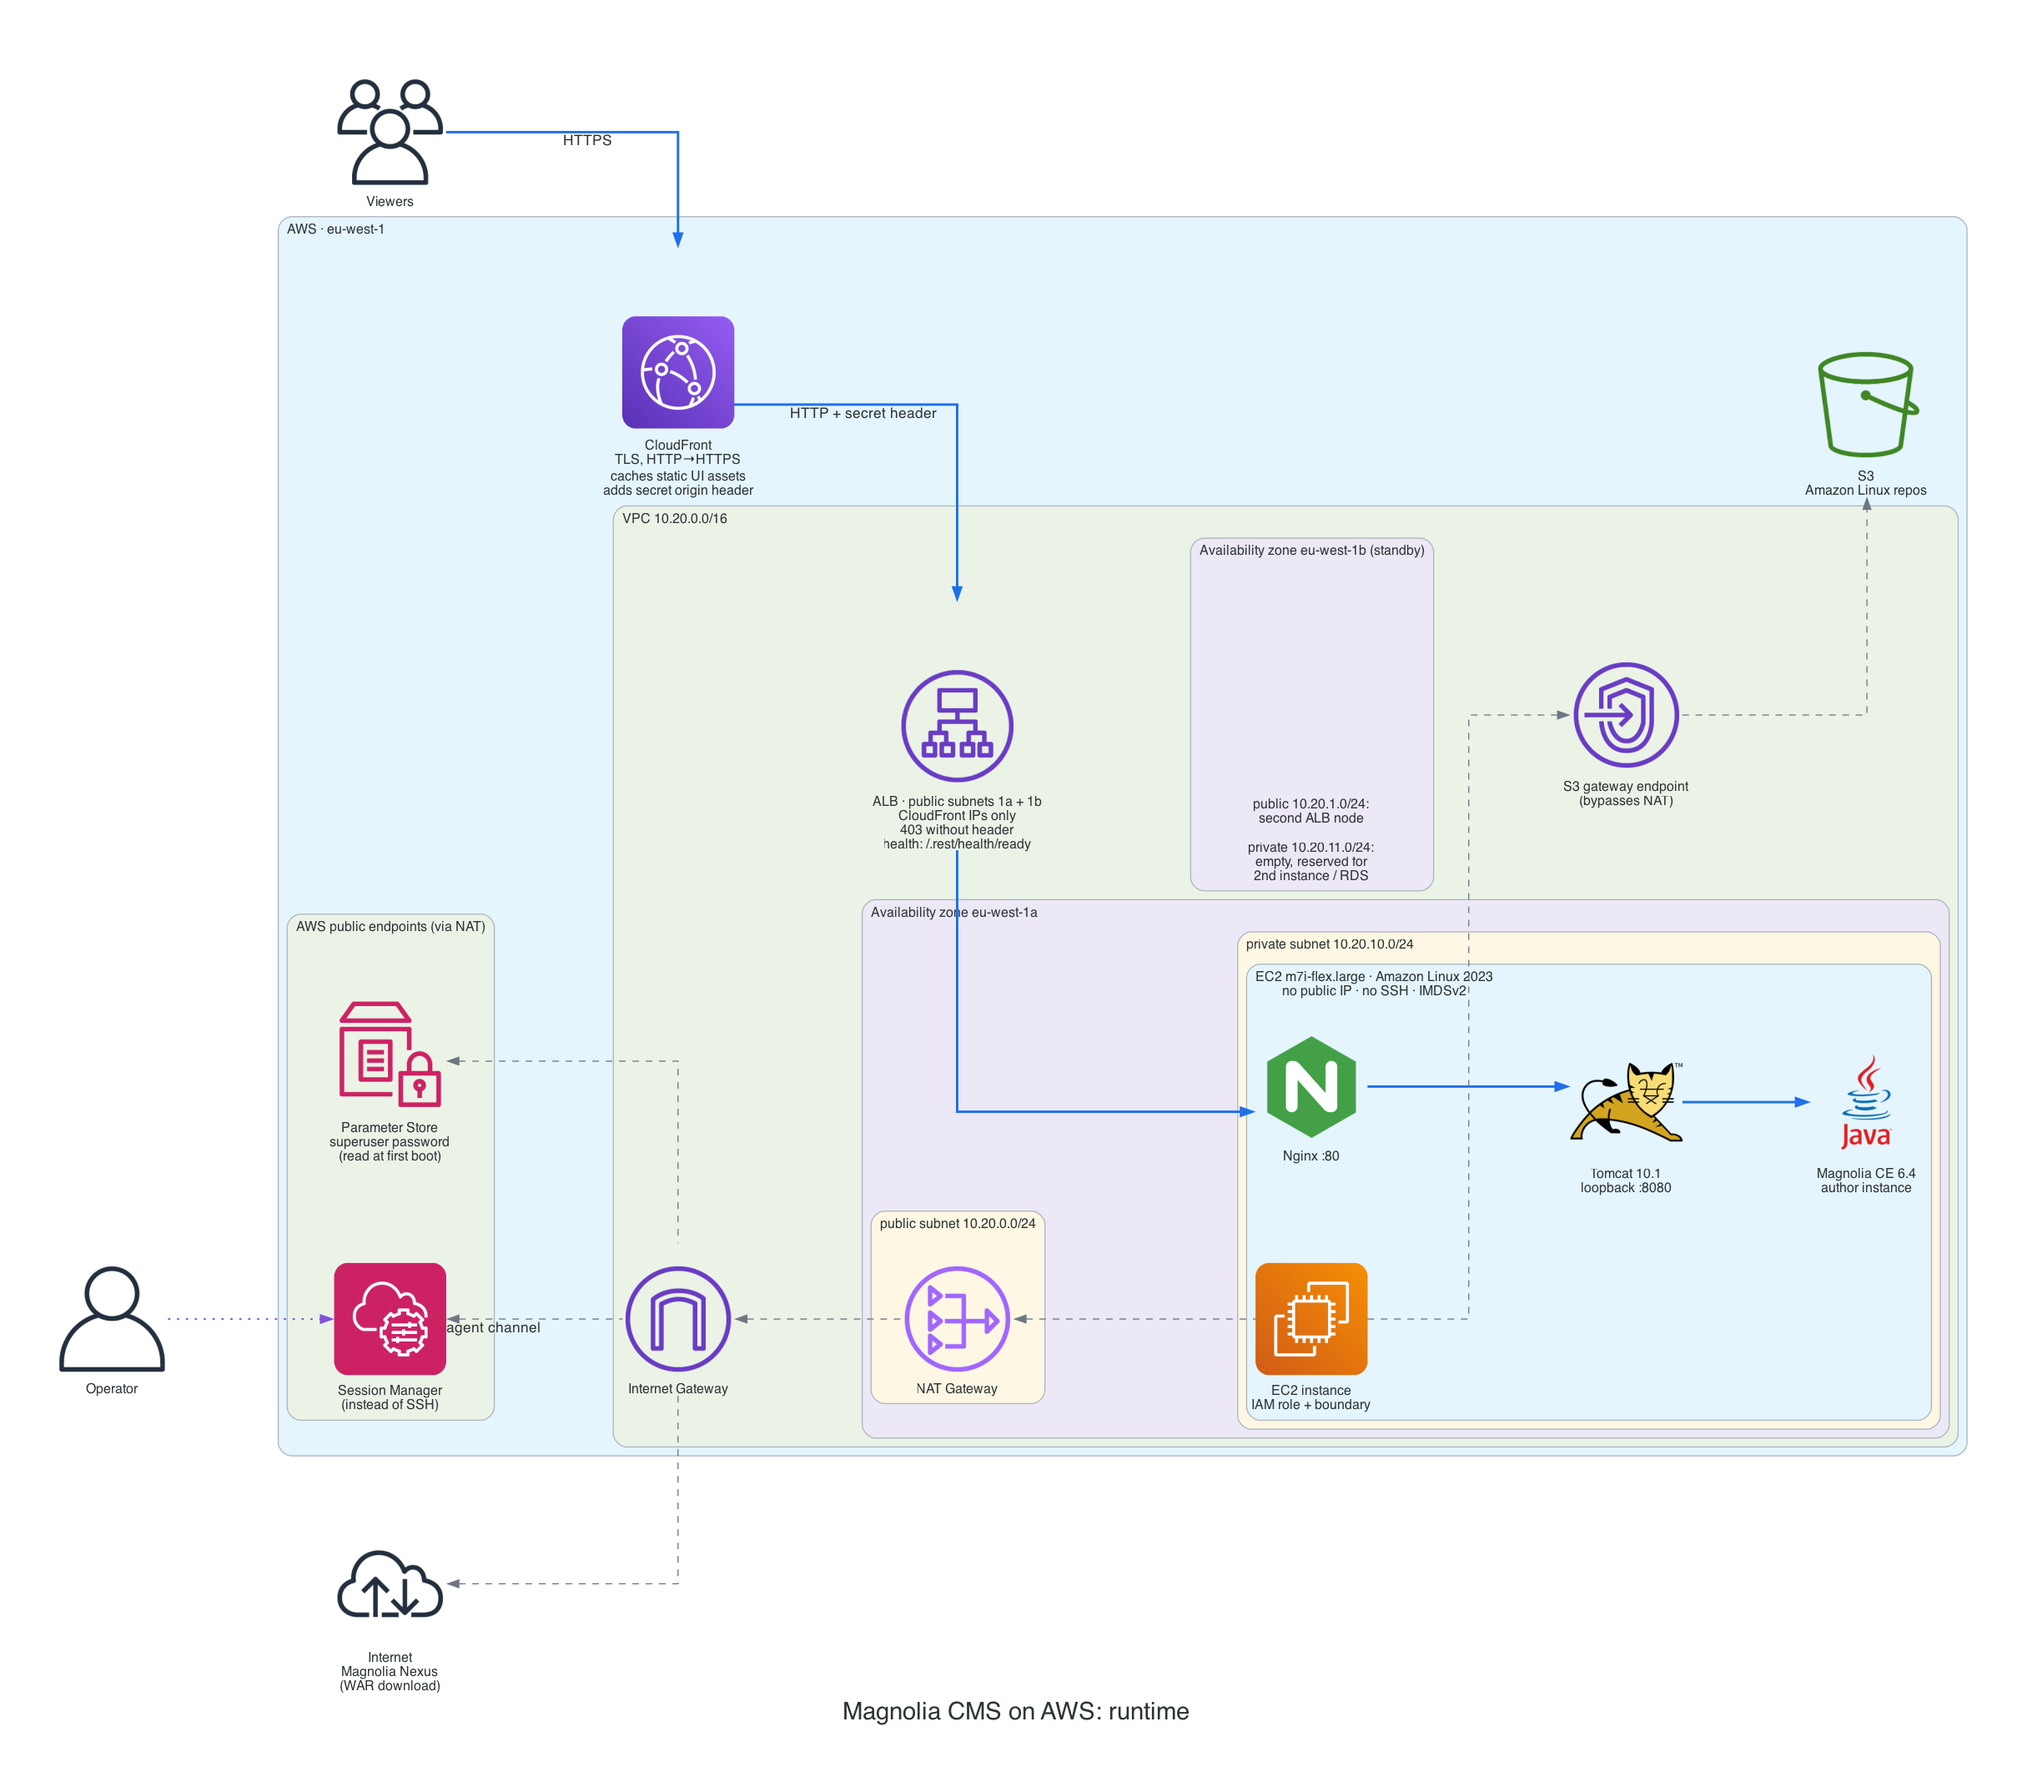
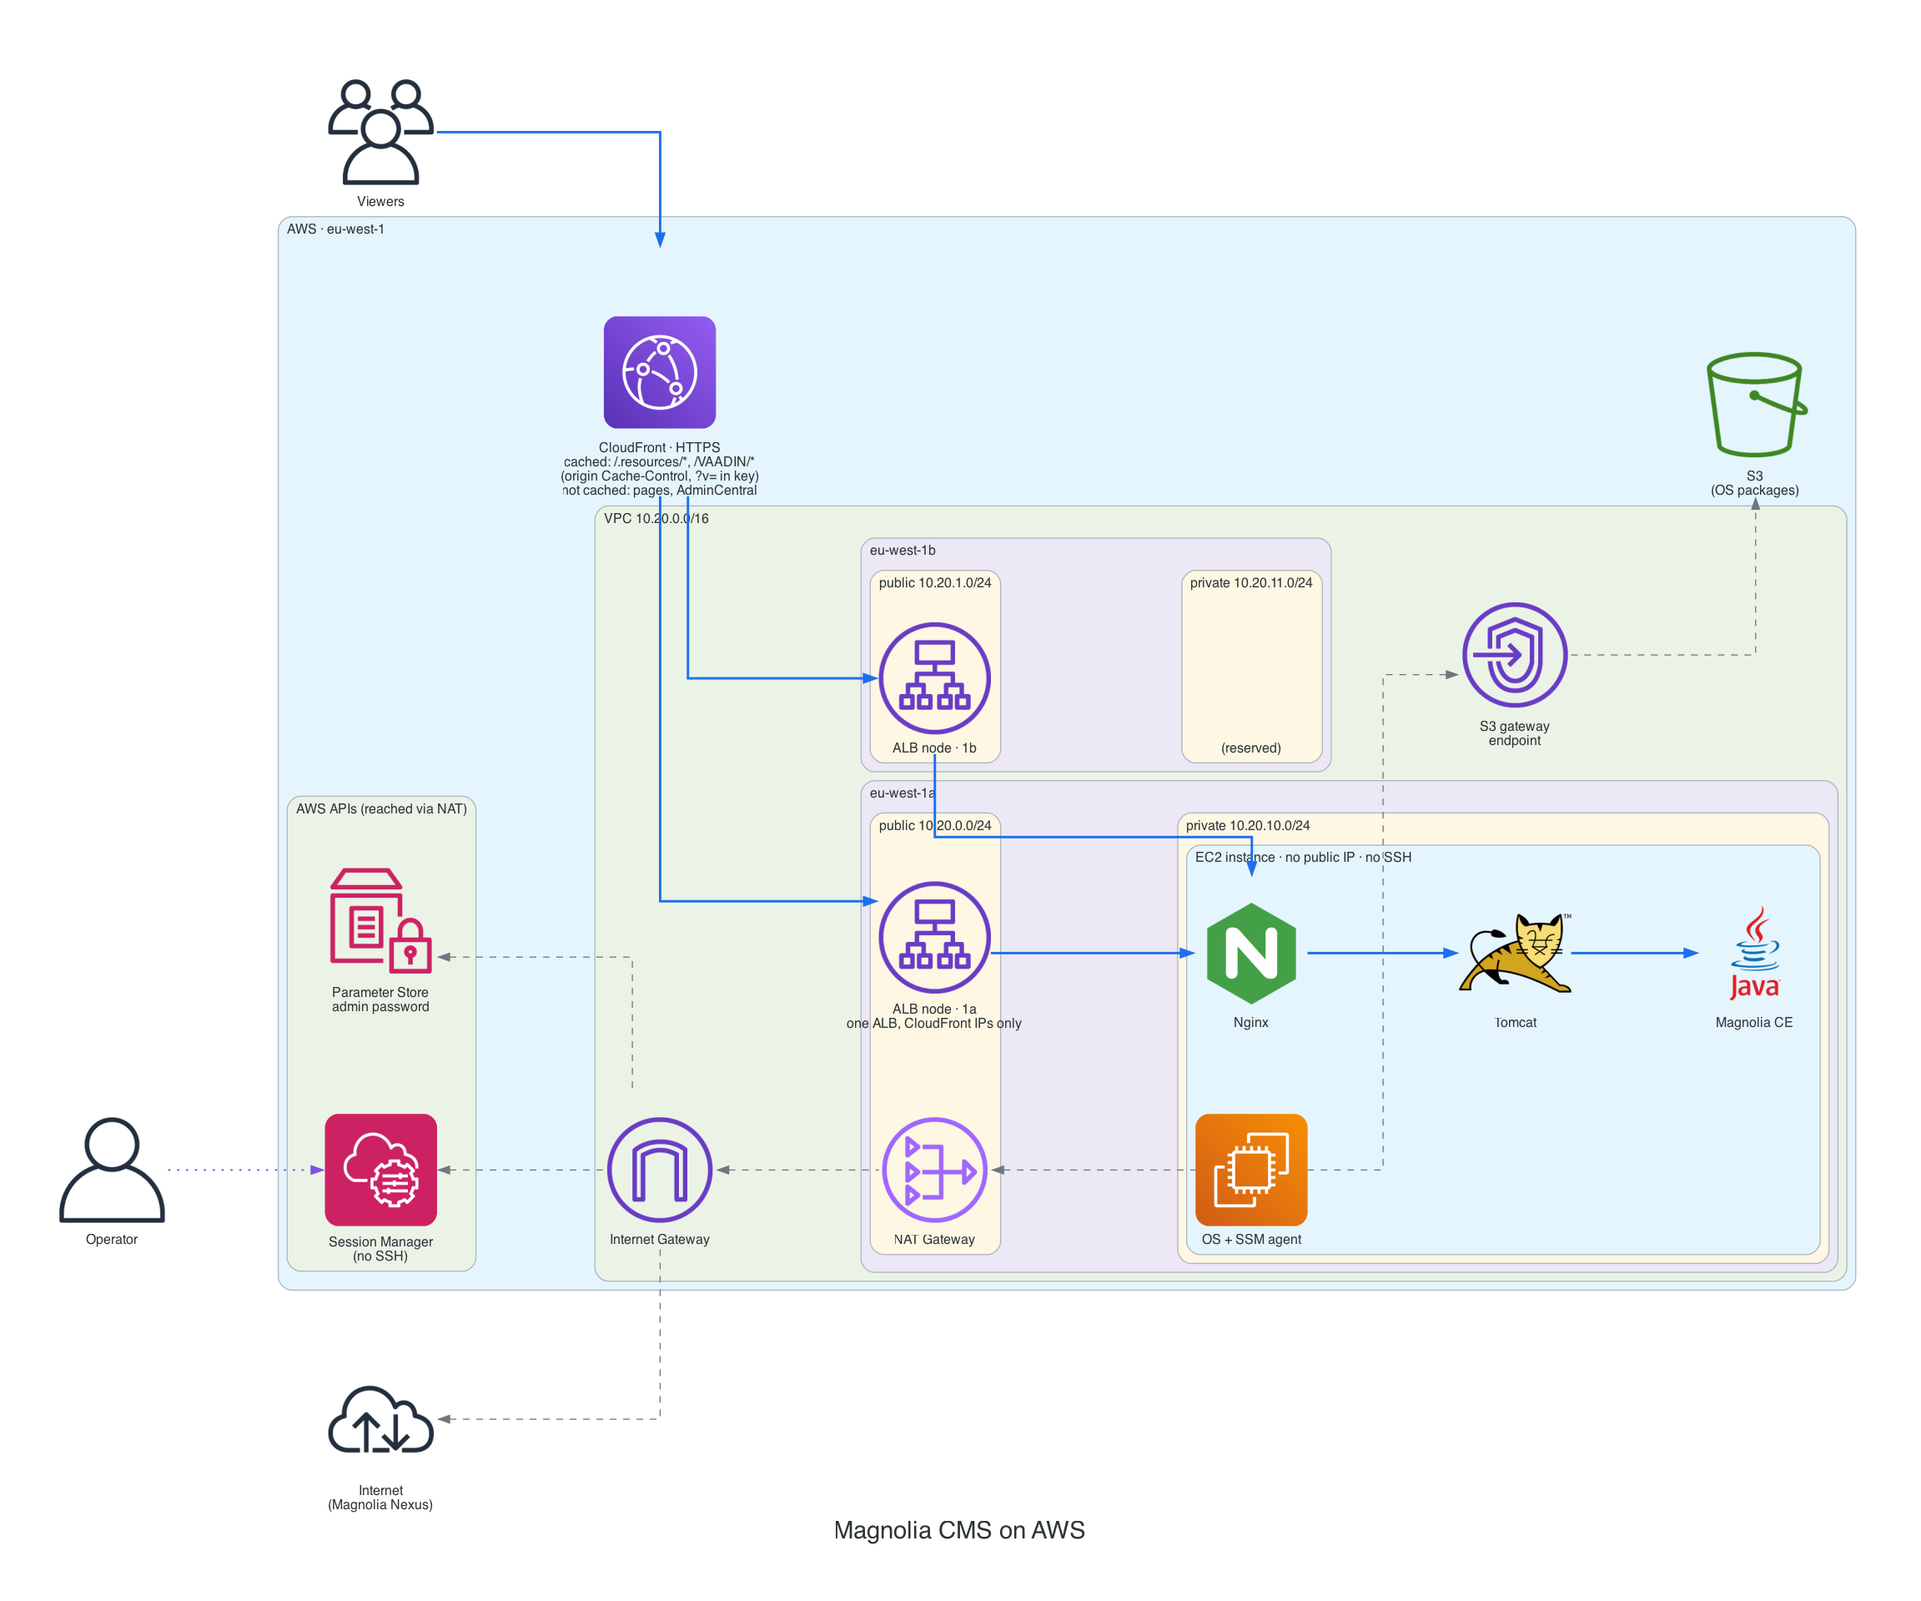
Diagram: real outbound paths, one ALB with a node per AZ, caching notes
- S3 goes instance -> gateway endpoint -> S3 and never touches NAT.
  Parameter Store and Session Manager have no VPC endpoint and are
  reached via NAT + IGW, like the internet.
- The ALB is drawn as a node in each public subnet, labelled as one ALB.
  Both nodes serve traffic (verified: two IPs, cross-zone enabled).
- CloudFront label states what is cached (/.resources, /VAADIN; origin
  Cache-Control, ?v= in the key) and what is not (pages, AdminCentral).
- Security notes on the nodes; the README caption is updated to match.

diff --git a/docs/architecture.py b/docs/architecture.py
@@ -31,13 +31,12 @@ from _style import REQUEST as request
 
 OUTPUT = Path(__file__).with_name("architecture")
 
-# Layout is driven by edge direction (LR): each `>>` puts its target one column to the right.
-# Everything the instance calls is written right-to-left with `<<`. NAT, the S3 endpoint and
-# Parameter Store land in the ALB column, the IGW in the CloudFront column and the internet on the
-# far left, so no line crosses the request path.
-# The CI/CD pipeline has its own diagram in the README.
+# Layout: the request path (blue) runs left to right. The instance's outbound traffic is written
+# right-to-left with `<<`, so it never crosses the request path: AWS APIs without a VPC endpoint
+# (Parameter Store, Session Manager) sit left, reached via NAT + IGW; S3 sits right, reached
+# through its free gateway endpoint without touching NAT.
 with Diagram(
-    "Magnolia CMS on AWS: runtime",
+    "Magnolia CMS on AWS",
     filename=str(OUTPUT),
     outformat="png",
     direction="LR",
@@ -48,62 +47,59 @@ with Diagram(
 ):
     viewers = Users("Viewers")
     operator = User("Operator")
-    nexus = Internet("Internet\nMagnolia Nexus\n(WAR download)")
+    internet = Internet("Internet\n(Magnolia Nexus)")
 
     with Cluster("AWS · eu-west-1"):
-        cdn = CloudFront("CloudFront\nTLS, HTTP→HTTPS\ncaches static UI assets\nadds secret origin header")
-        # AWS APIs without a VPC endpoint: the instance reaches them like the internet, via NAT + IGW.
-        with Cluster("AWS public endpoints (via NAT)"):
-            ssm = SystemsManager("Session Manager\n(instead of SSH)")
-            params = SystemsManagerParameterStore("Parameter Store\nsuperuser password\n(read at first boot)")
+        cdn = CloudFront(
+            "CloudFront · HTTPS\n"
+            "cached: /.resources/*, /VAADIN/*\n"
+            "(origin Cache-Control, ?v= in key)\n"
+            "not cached: pages, AdminCentral"
+        )
+
+        with Cluster("AWS APIs (reached via NAT)"):
+            ssm = SystemsManager("Session Manager\n(no SSH)")
+            params = SystemsManagerParameterStore("Parameter Store\nadmin password")
+
+        s3 = SimpleStorageServiceS3Bucket("S3\n(OS packages)")
 
         with Cluster("VPC 10.20.0.0/16"):
             igw = InternetGateway("Internet Gateway")
-            s3_endpoint = Endpoint("S3 gateway endpoint\n(bypasses NAT)")
+            s3_endpoint = Endpoint("S3 gateway\nendpoint")
 
-            with Cluster("Availability zone eu-west-1a"):
-                with Cluster("public subnet 10.20.0.0/24"):
+            with Cluster("eu-west-1b"):
+                with Cluster("public 10.20.1.0/24"):
+                    alb_b = ElbApplicationLoadBalancer("ALB node · 1b")
+                with Cluster("private 10.20.11.0/24"):
+                    spare = Blank("(reserved)")
+
+            with Cluster("eu-west-1a"):
+                with Cluster("public 10.20.0.0/24"):
+                    alb = ElbApplicationLoadBalancer("ALB node · 1a\none ALB, CloudFront IPs only")
                     nat = NATGateway("NAT Gateway")
 
-                with Cluster("private subnet 10.20.10.0/24"):
-                    with Cluster("EC2 m7i-flex.large · Amazon Linux 2023\nno public IP · no SSH · IMDSv2"):
-                        nginx = Nginx("Nginx :80")
-                        tomcat = Tomcat("Tomcat 10.1\nloopback :8080")
-                        magnolia = Java("Magnolia CE 6.4\nauthor instance")
-                        host = EC2("EC2 instance\nIAM role + boundary")
-
-            # One logical load balancer with a node in each public subnet: drawn between the two AZs.
-            alb = ElbApplicationLoadBalancer(
-                "ALB · public subnets 1a + 1b\nCloudFront IPs only\n403 without header\nhealth: /.rest/health/ready"
-            )
-
-            # The second AZ exists because the ALB requires two, and so that the next steps
-            # (a second instance, RDS) need no network changes. Nothing of ours runs there yet.
-            with Cluster("Availability zone eu-west-1b (standby)"):
-                az_b = Blank(
-                    "public 10.20.1.0/24:\nsecond ALB node\n\n"
-                    "private 10.20.11.0/24:\nempty, reserved for\n2nd instance / RDS"
-                )
-
-        s3 = SimpleStorageServiceS3Bucket("S3\nAmazon Linux repos")
+                with Cluster("private 10.20.10.0/24"):
+                    with Cluster("EC2 instance · no public IP · no SSH"):
+                        nginx = Nginx("Nginx")
+                        tomcat = Tomcat("Tomcat")
+                        magnolia = Java("Magnolia CE")
+                        host = EC2("OS + SSM agent")
 
     # Request path
-    viewers >> Edge(xlabel="HTTPS", **request) >> cdn
-    cdn >> Edge(xlabel="HTTP + secret header", **request) >> alb
-    alb >> Edge(**request) >> nginx
+    viewers >> Edge(**request) >> cdn
+    cdn >> Edge(**request) >> alb >> Edge(**request) >> nginx
+    cdn >> Edge(**request) >> alb_b >> Edge(**request) >> nginx
     nginx >> Edge(**request) >> tomcat >> Edge(**request) >> magnolia
 
-    # Outbound from the private subnet. Only S3 has a (free) gateway endpoint; everything else,
-    # AWS APIs included, leaves through NAT -> IGW. Internet-bound edges are drawn right-to-left.
+    # Outbound from the instance
     igw << Edge(**outbound) << nat << Edge(**outbound) << host
-    nexus << Edge(**outbound) << igw
+    internet << Edge(**outbound) << igw
     params << Edge(**outbound) << igw
-    ssm << Edge(xlabel="agent channel", **outbound) << igw
+    ssm << Edge(**outbound) << igw
     host >> Edge(**outbound) >> s3_endpoint >> Edge(**outbound) >> s3
 
-    # Keep the empty AZ in line with the populated one (layout only).
-    alb >> Edge(style="invis") >> az_b
-
-    # Operator access, no SSH: the operator talks to Session Manager, which relays over the
-    # channel the instance's SSM agent keeps open.
+    # Operator access: Session Manager relays over the channel the SSM agent keeps open
     operator >> Edge(**control) >> ssm
+
+    # Layout only: keep the reserved subnet in the private column
+    alb_b >> Edge(style="invis") >> spare

diff --git a/README.md b/README.md
@@ -17,9 +17,9 @@ A few things go beyond the brief. Each is small and closes a real gap:
 
 ## Architecture
 
-![Architecture: viewers reach CloudFront, which forwards to the ALB in the public subnets and on to Nginx, Tomcat and Magnolia on a private EC2 instance; the instance reaches the internet only through the NAT gateway, and operators connect through SSM Session Manager](docs/architecture.png)
+![Architecture: viewers reach CloudFront, which forwards to one ALB with a node in each public subnet (eu-west-1a and 1b); both nodes forward to Nginx, Tomcat and Magnolia on a single EC2 instance in the private subnet of 1a. The instance reaches S3 through a gateway endpoint, and everything else (Parameter Store, Session Manager, the internet) through NAT and the Internet Gateway. Operators connect through Session Manager.](docs/architecture.png)
 
-<sub>Generated from [`docs/architecture.py`](docs/architecture.py) with [diagrams](https://diagrams.mingrammer.com/). To regenerate: `pip install diagrams` (needs Graphviz), then `python docs/architecture.py && python docs/cicd.py`. Solid blue is the request path, dashed grey is outbound traffic from the instance, dotted purple is operator access. The CI/CD pipeline has its own diagram [below](#cicd-github-actions).</sub>
+<sub>Generated from [`docs/architecture.py`](docs/architecture.py) with [diagrams](https://diagrams.mingrammer.com/). To regenerate: `pip install diagrams` (needs Graphviz), then `python docs/architecture.py && python docs/cicd.py`. Solid blue is the request path, dashed grey is the instance's outbound traffic, dotted purple is operator access. The VPC is drawn per availability zone. The ALB is one load balancer with a node in each public subnet, and both nodes serve traffic (cross-zone).</sub>
 
 ### How a request flows
 
